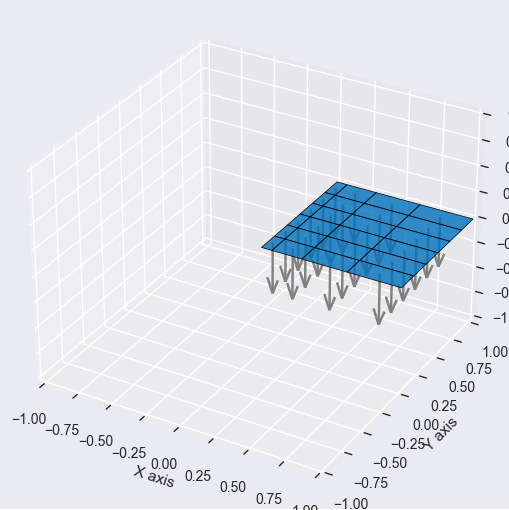
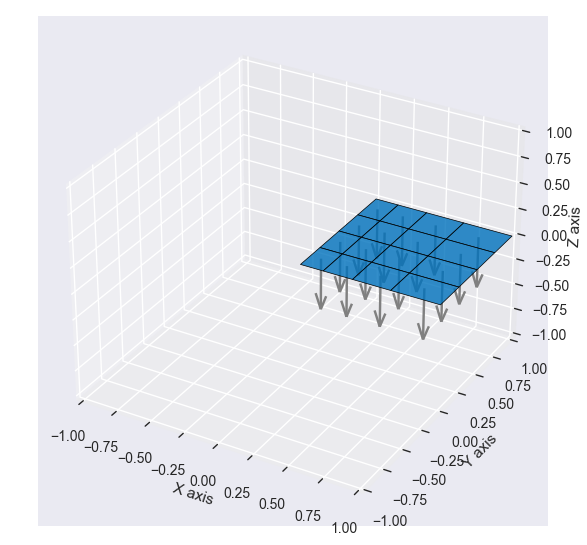
minor modifications

diff --git a/examples/rectangle.py b/examples/rectangle.py
@@ -5,7 +5,7 @@ sys.path.append(os.path.abspath(os.path.join('..', 'gdf')))
 
 # examples/rectangle.py
 
-from gdf import Point, Line, CoonsPatch, CosineDistribution, GDFViewer
+from gdf import Point, Line, CoonsPatch, ExponentialDistribution, GDFViewer
 
 point1 = Point(0, 0, 0)
 point2 = Point(1, 0, 0)
@@ -20,8 +20,8 @@ line4 = Line(point4, point1)
 surface = CoonsPatch([line1, line3, line2, line4])
 surface.flip_normal = True # flips surface panel normals
 surface.num_points_u = 5 # specifies number of points along the u dimension
-surface.num_points_w = 7 # specifies number of points along the w dimension
-surface.dist_u = CosineDistribution(flip_direction=True) # distribution method along the u dimension
+surface.num_points_w = 5 # specifies number of points along the w dimension
+surface.dist_u = ExponentialDistribution() # distribution method along the u dimension
 
 surface_selection = CoonsPatch.get_all_surfaces()
 

diff --git a/README.md b/README.md
@@ -23,7 +23,7 @@ Geometry package that handles basic geometry and facilitates the creation of 3-d
 ```Python
 # examples/rectangle.py
 
-from gdf import Point, Line, CoonsPatch, CosineDistribution, GDFViewer
+from gdf import Point, Line, CoonsPatch, ExponentialDistribution, GDFViewer
 
 point1 = Point(0, 0, 0)
 point2 = Point(1, 0, 0)
@@ -38,8 +38,8 @@ line4 = Line(point4, point1)
 surface = CoonsPatch([line1, line3, line2, line4])
 surface.flip_normal = True # flips surface panel normals
 surface.num_points_u = 5 # specifies number of points along the u dimension
-surface.num_points_w = 7 # specifies number of points along the w dimension
-surface.dist_u = CosineDistribution(flip_direction=True) # distribution method along the u dimension
+surface.num_points_w = 5 # specifies number of points along the w dimension
+surface.dist_u = ExponentialDistribution() # distribution method along the u dimension
 
 surface_selection = CoonsPatch.get_all_surfaces()
 
